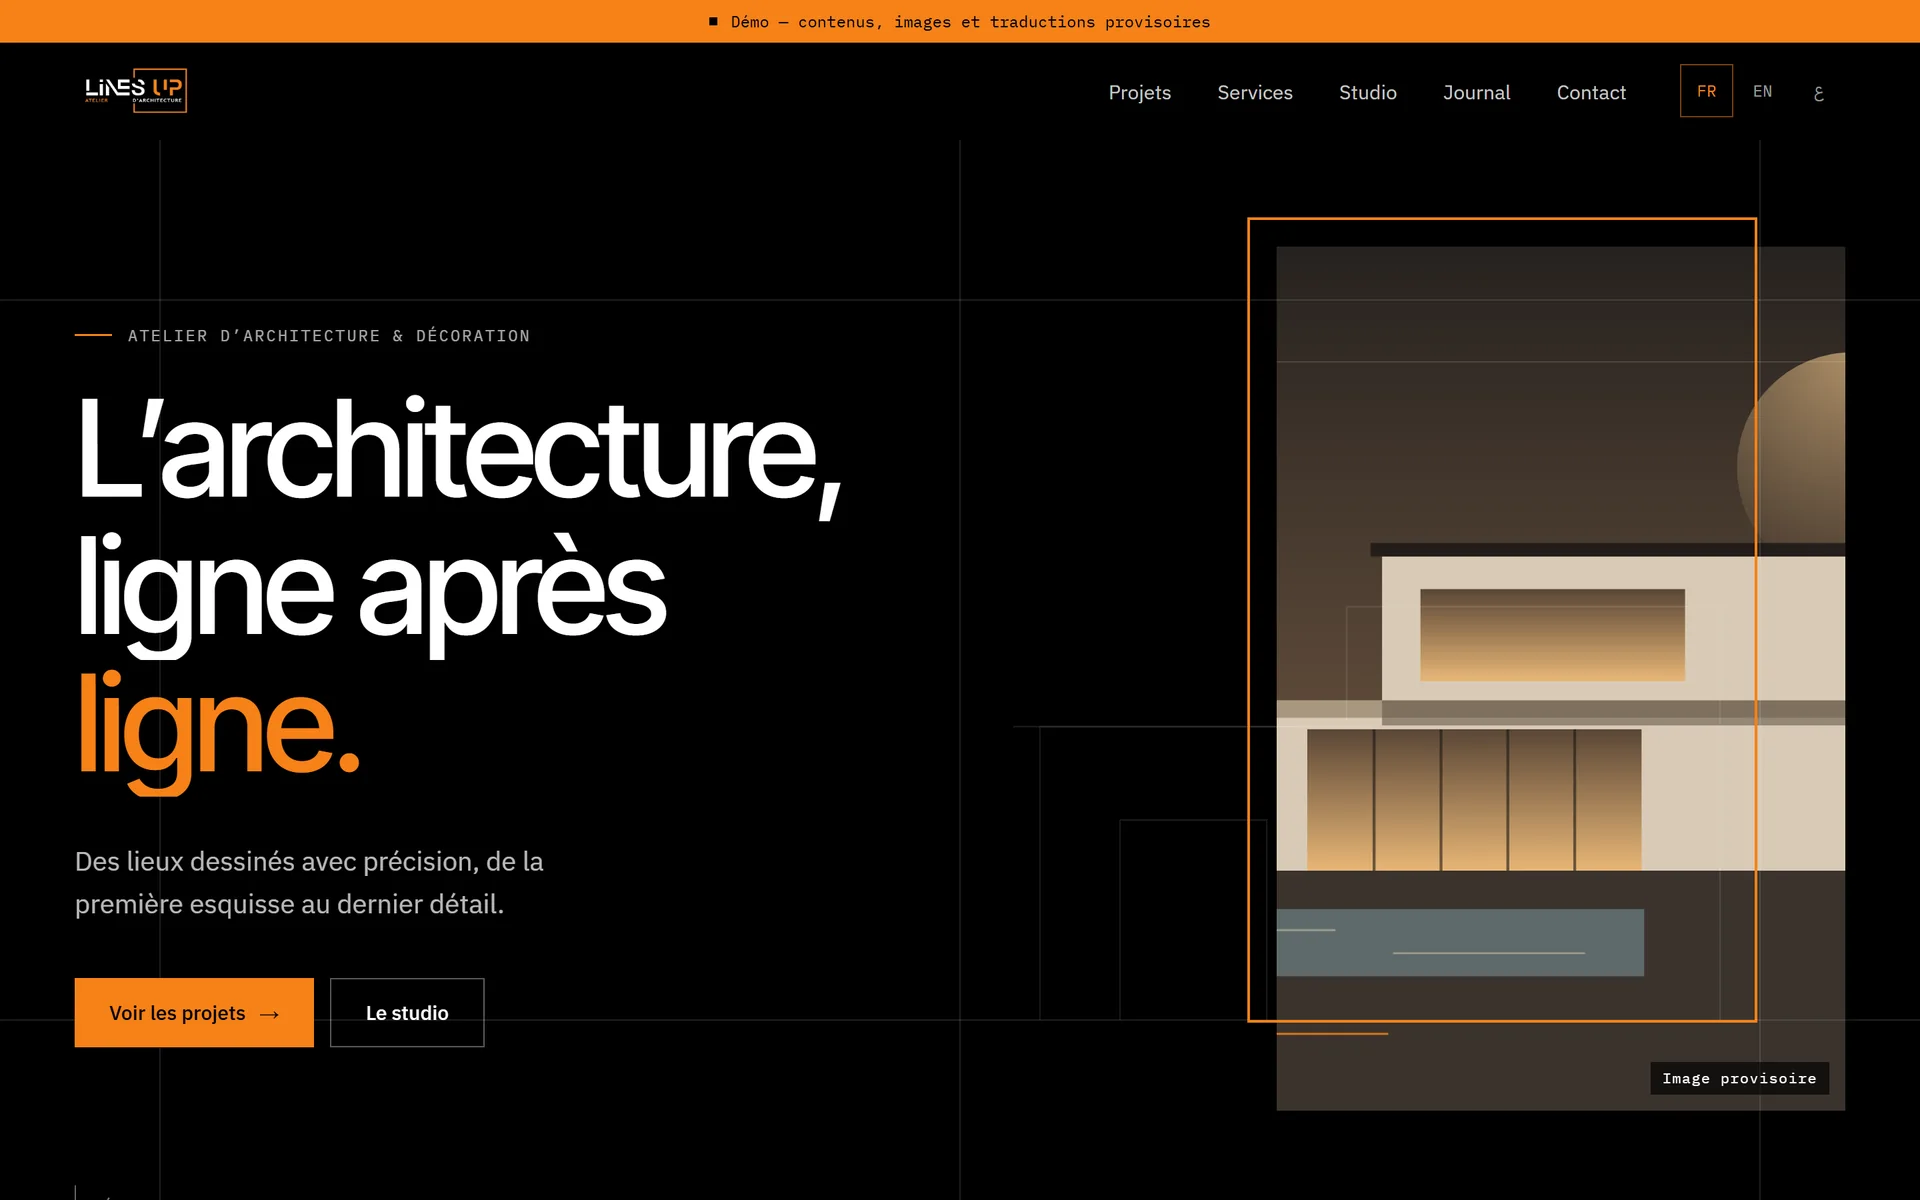
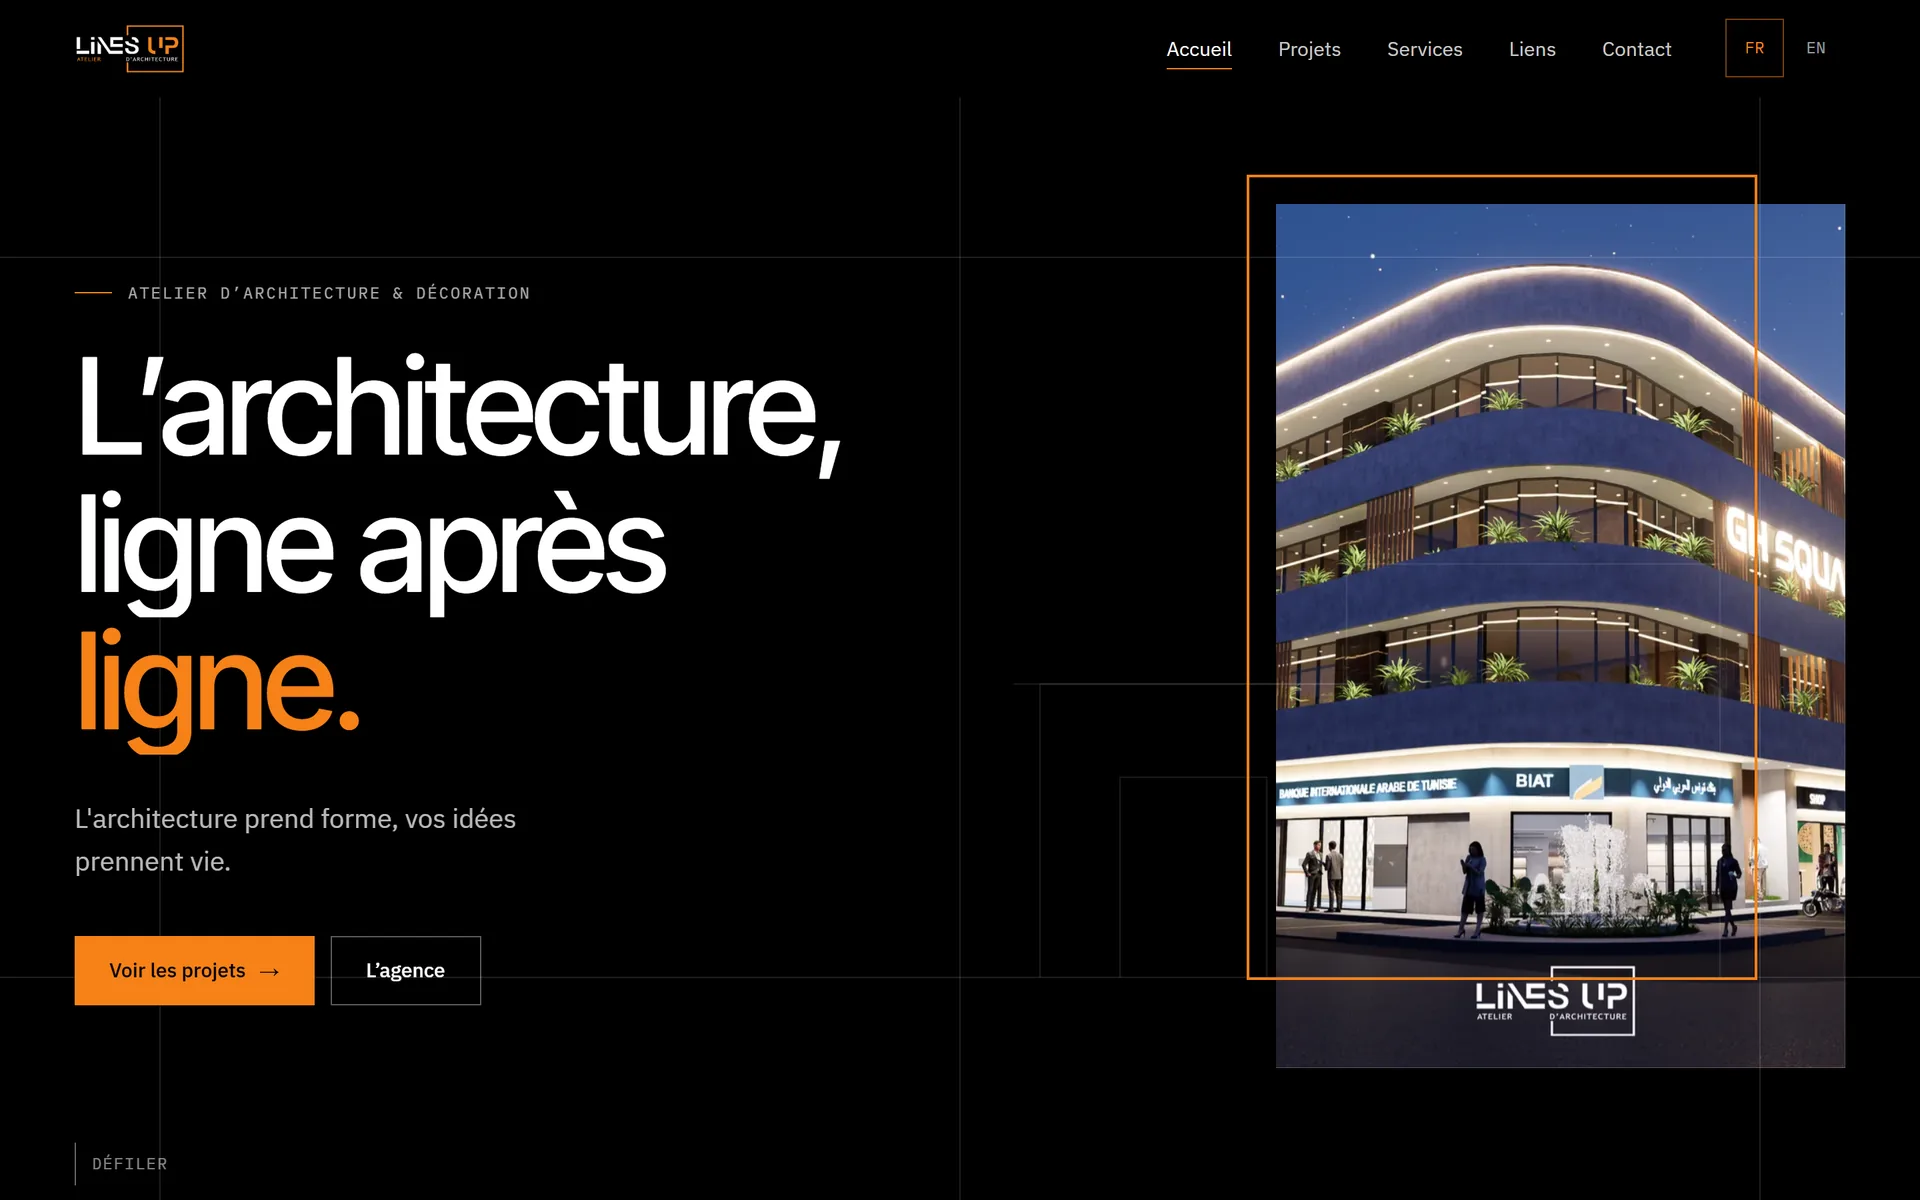
Refresh Lines Up captures; default site URL to ahmed-abdelkafi.dev

diff --git a/src/app/[locale]/layout.tsx b/src/app/[locale]/layout.tsx
@@ -11,7 +11,7 @@ import Loader from "@/components/Loader";
 import ThemeProvider, { themeBootScript } from "@/components/ThemeProvider";
 import ThemeCustomizer from "@/components/ThemeCustomizer";
 
-const siteUrl = process.env.NEXT_PUBLIC_SITE_URL ?? "http://localhost:3000";
+const siteUrl = process.env.NEXT_PUBLIC_SITE_URL ?? "https://ahmed-abdelkafi.dev";
 
 export function generateStaticParams() {
   return locales.map((locale) => ({ locale }));

diff --git a/src/app/robots.ts b/src/app/robots.ts
@@ -1,7 +1,7 @@
 import type { MetadataRoute } from "next";
 export const dynamic = "force-static";
 
-const base = process.env.NEXT_PUBLIC_SITE_URL ?? "http://localhost:3000";
+const base = process.env.NEXT_PUBLIC_SITE_URL ?? "https://ahmed-abdelkafi.dev";
 
 export default function robots(): MetadataRoute.Robots {
   return { rules: { userAgent: "*", allow: "/" }, sitemap: `${base}/sitemap.xml` };

diff --git a/src/app/sitemap.ts b/src/app/sitemap.ts
@@ -3,7 +3,7 @@ import { en } from "@/content/en";
 
 export const dynamic = "force-static";
 
-const base = process.env.NEXT_PUBLIC_SITE_URL ?? "http://localhost:3000";
+const base = process.env.NEXT_PUBLIC_SITE_URL ?? "https://ahmed-abdelkafi.dev";
 
 const entry = (path: string, priority: number): MetadataRoute.Sitemap[number] => ({
   url: `${base}/en${path}`,
